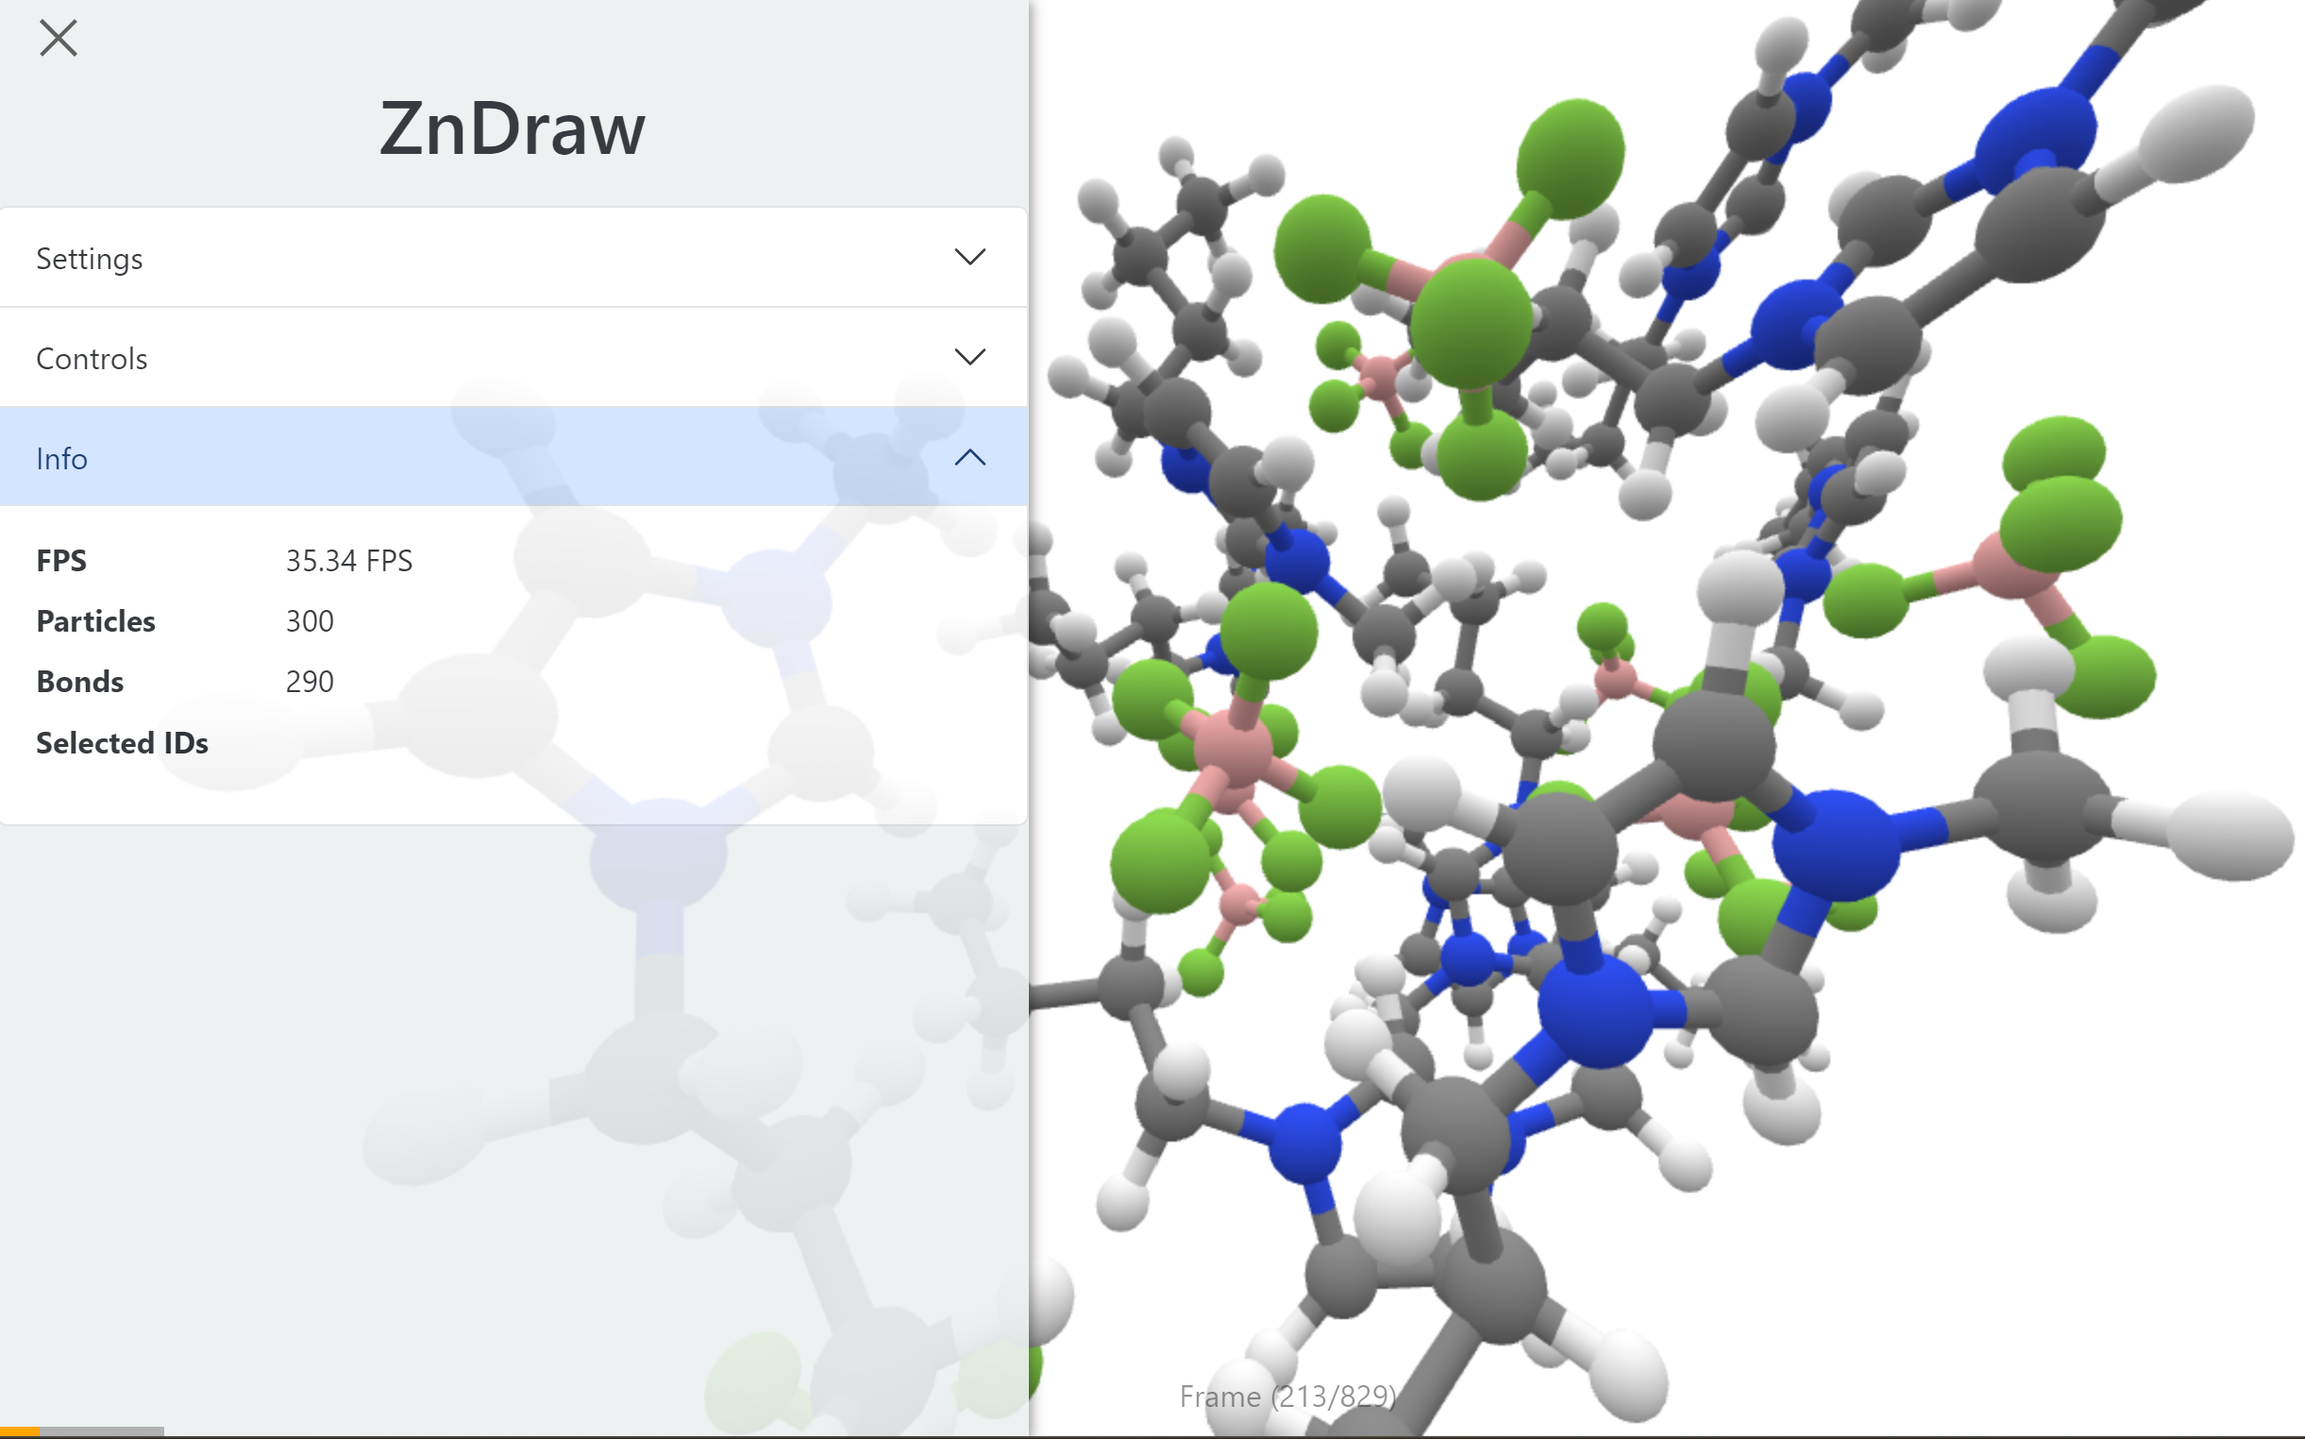
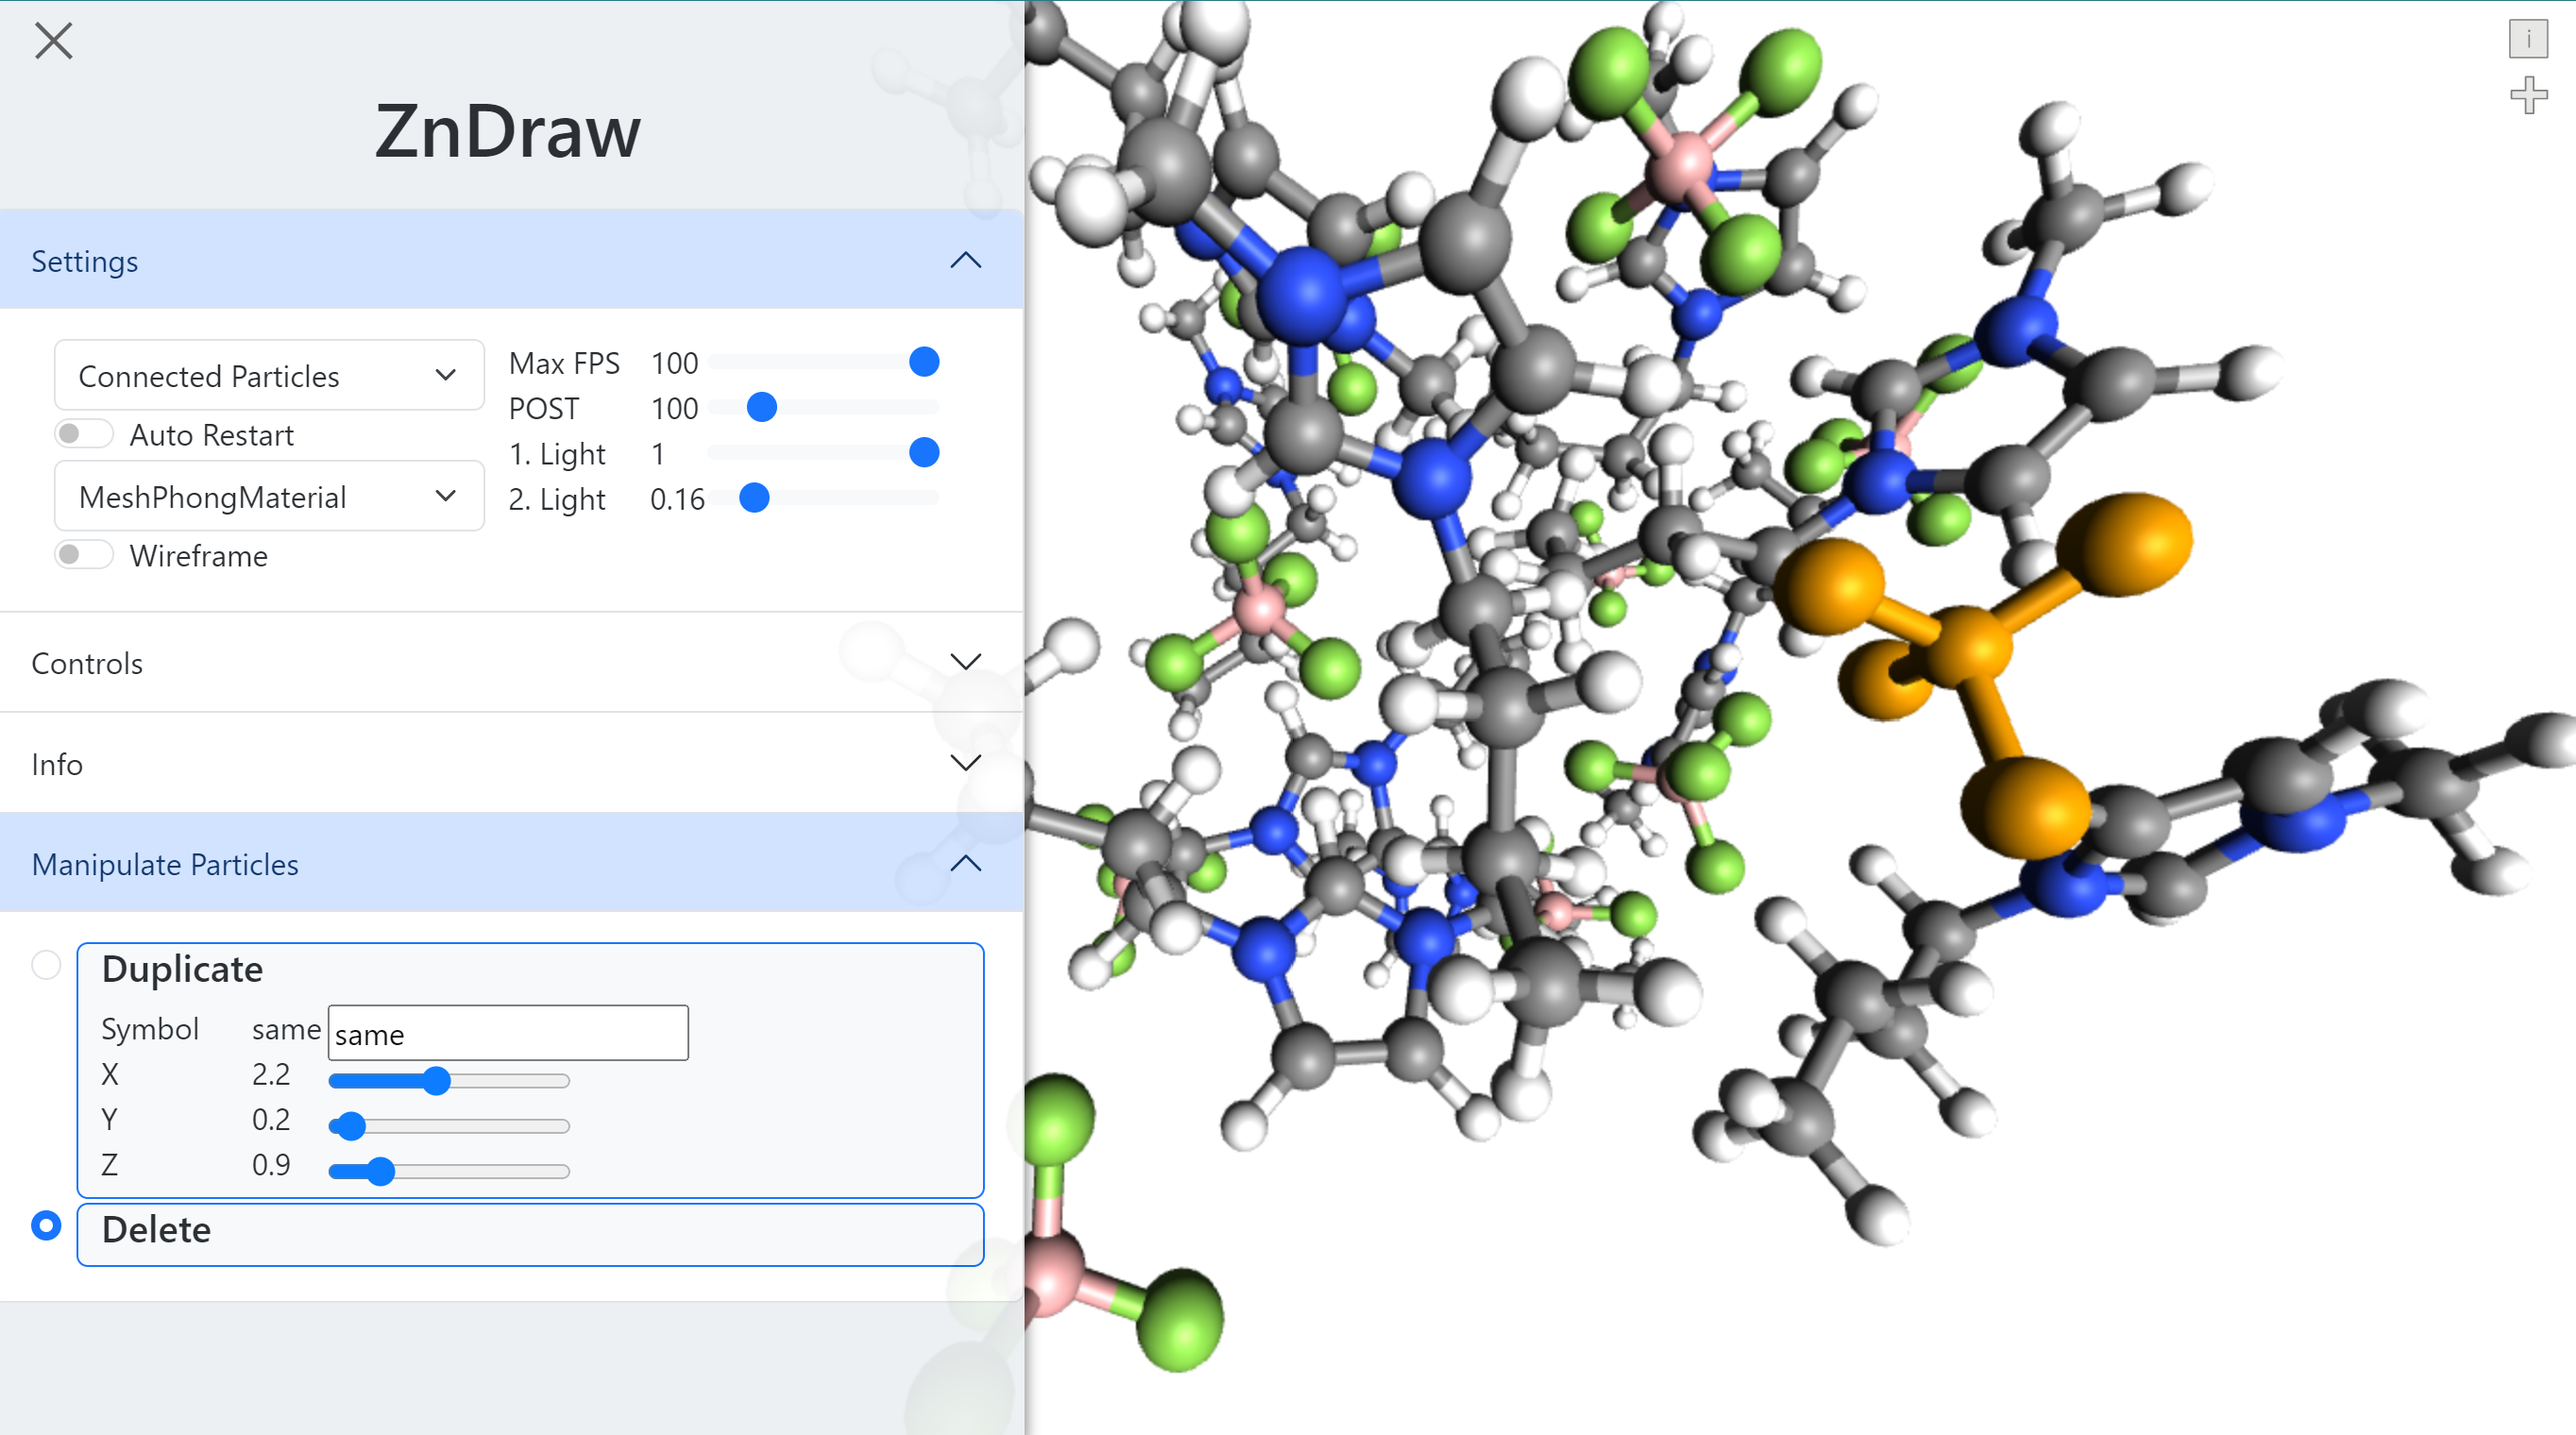
update documentation

diff --git a/zndraw/static/modules/particles.js b/zndraw/static/modules/particles.js
@@ -30,11 +30,9 @@ const halfCylinderGeometryFactory = () => {
         key = bond_size + "_" + resolution;
 
         if (key in cache) {
-            console.log('Fetching CylinderGeometry from cache');
             return cache[key];
         }
         else {
-            console.log('Creating new CylinderGeometry');
             const geometry = new THREE.CylinderGeometry(0.15 * bond_size, 0.15 * bond_size, 1, resolution * 2);
             // shift it so one end rests on the origin
             geometry.applyMatrix4(new THREE.Matrix4().makeTranslation(0, 1 / 2, 0));
@@ -53,11 +51,9 @@ const sphereGeometryFactory = () => {
         key = sphere_size + "_" + resolution;
 
         if (key in cache) {
-            console.log('Fetching SphereGeometry from cache');
             return cache[key];
         }
         else {
-            console.log('Creating new SphereGeometry');
             const geometry = new THREE.SphereGeometry(sphere_size, resolution * 4, resolution * 2);
             cache[key] = geometry;
             return geometry;

diff --git a/zndraw/app.py b/zndraw/app.py
@@ -31,6 +31,7 @@ def atoms_step():
     try:
         atoms = globals.config.get_atoms(step=int(step))
         graph = io.get_graph(atoms)
+        print(f"Graph has {len(graph.nodes)} nodes and {len(graph.edges)} edges")
         return [{**graph.nodes[idx], "id": idx} for idx in graph.nodes]
     except (KeyError, IndexError):
         return []

diff --git a/README.md b/README.md
@@ -46,4 +46,6 @@ To add your method click on the `+` on the right side of the window.
 Your should be able to add your method from the working directory via `module.MyUpdateCls` as long
 as it can be imported via `from module import MyUpdateCls`.
 
-![Alt text](https://raw.githubusercontent.com/zincware/ZnDraw/main/misc/zndraw_ui.png "ZnDraw UI")
+![ZnDraw UI](https://raw.githubusercontent.com/zincware/ZnDraw/main/misc/zndraw_ui.png "ZnDraw UI")
+
+![ZnDraw UI2](https://raw.githubusercontent.com/zincware/ZnDraw/main/misc/zndraw_protein.png "ZnDraw UI2")
